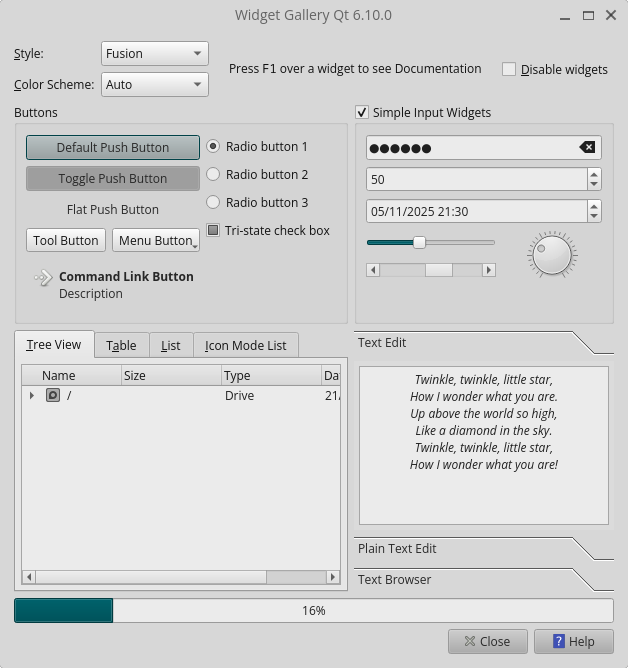
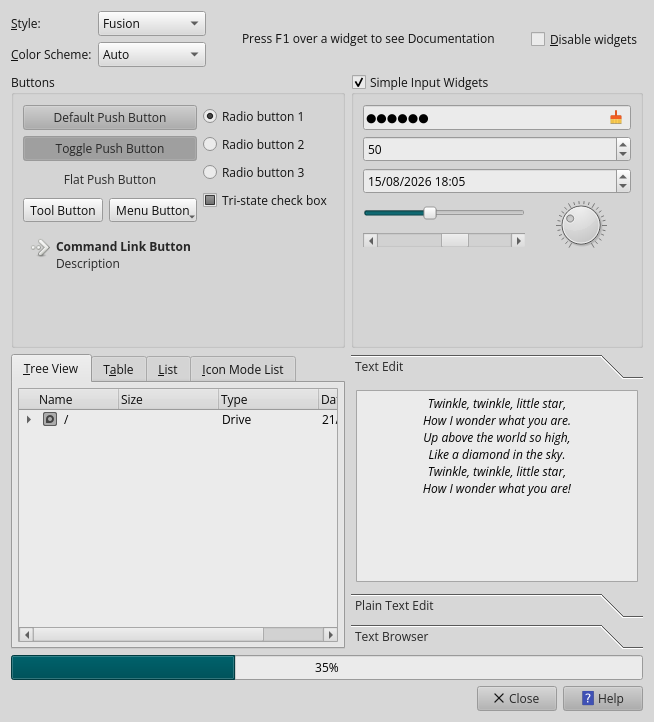
Update README and screenshots

diff --git a/README.md b/README.md
@@ -37,7 +37,19 @@ KDE Discover rocking the COSMIC version of the [Catppuccin](https://github.com/c
 
 ## Installation
 
-CuteCosmic must currently be built from source. To do so, you'll need a C++ compiler, the most recent Rust stable compiler, CMake and development files (headers, libraries and tools) for Qt 6.
+### From a distribution package
+
+Some GNU/Linux distributions package CuteCosmic in their repositories. Installing it through the respective package manager tool will apply CuteCosmic to the distribution's own system-wide build of Qt and KDE, and therefore most Qt applications installed from distribution repositories.
+
+For your convenience, see the list of known distribution packages as tracked by Repology:
+
+[![Packaging status](https://repology.org/badge/vertical-allrepos/cutecosmic.svg)](https://repology.org/project/cutecosmic/versions)
+
+Note that these are not maintained directly by this project, and therefore their quality cannot be vouched for.
+
+### From source
+
+If your distribution doesn't package CuteCosmic, or you want to use it with a build of Qt other than the system-wide one, it must be built from source. To do so, you'll need a C++ compiler, the most recent Rust stable compiler, CMake and development files (headers, libraries, and tools) for Qt 6.
 
 The project aims to support only the last three released minor versions of Qt, as well as the most recent Qt 6 LTS series (if it is not one of the three). Currently this means Qt 6.8, 6.9, 6.10 and 6.11.
 
@@ -79,7 +91,7 @@ Issue reports and code contributions are gratefully accepted. Please do not send
 
 ## License
 
-Copyright 2025 Igor Khanin.
+Copyright 2025 - 2026 Igor Khanin.
 
 Made available under the [GPL v3](https://choosealicense.com/licenses/gpl-3.0/) license.
 
